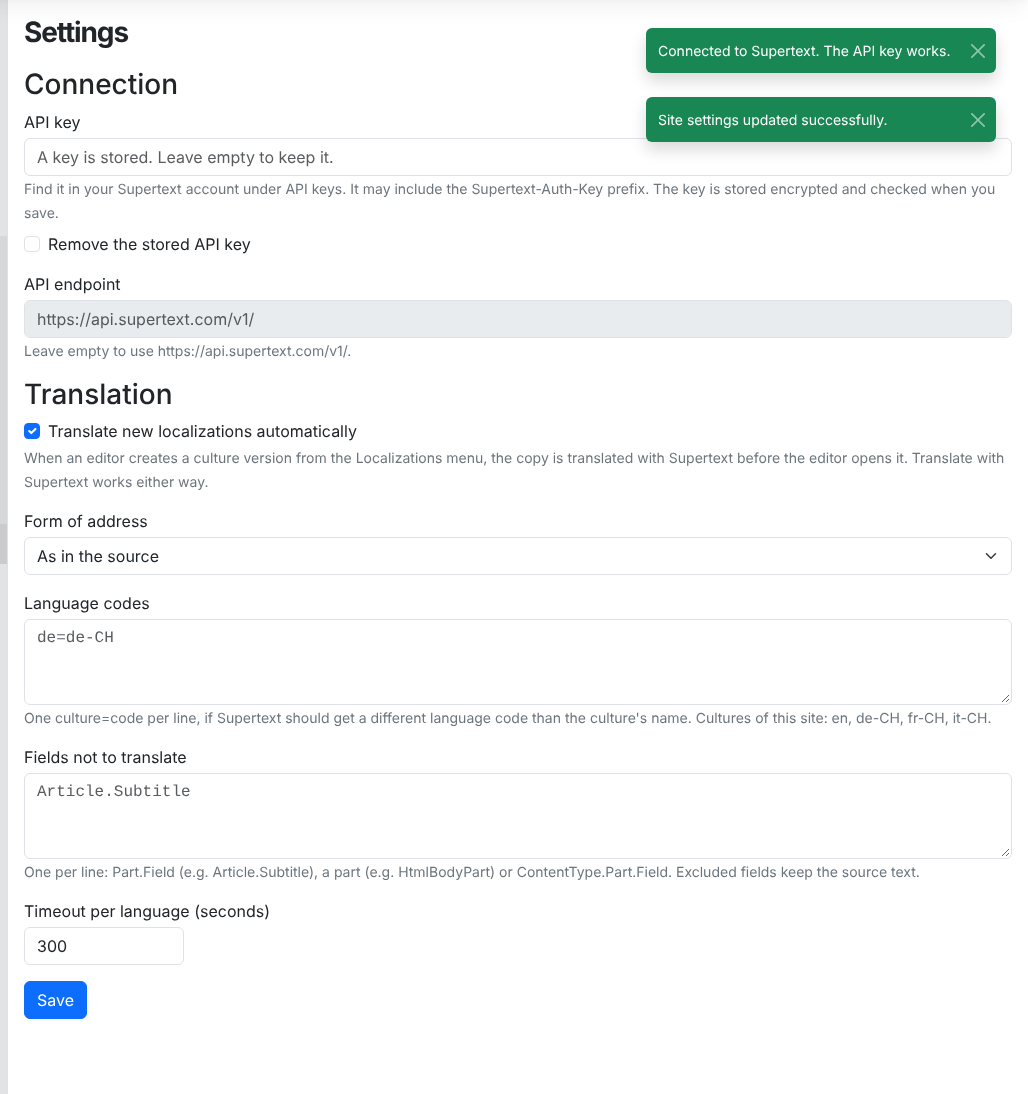
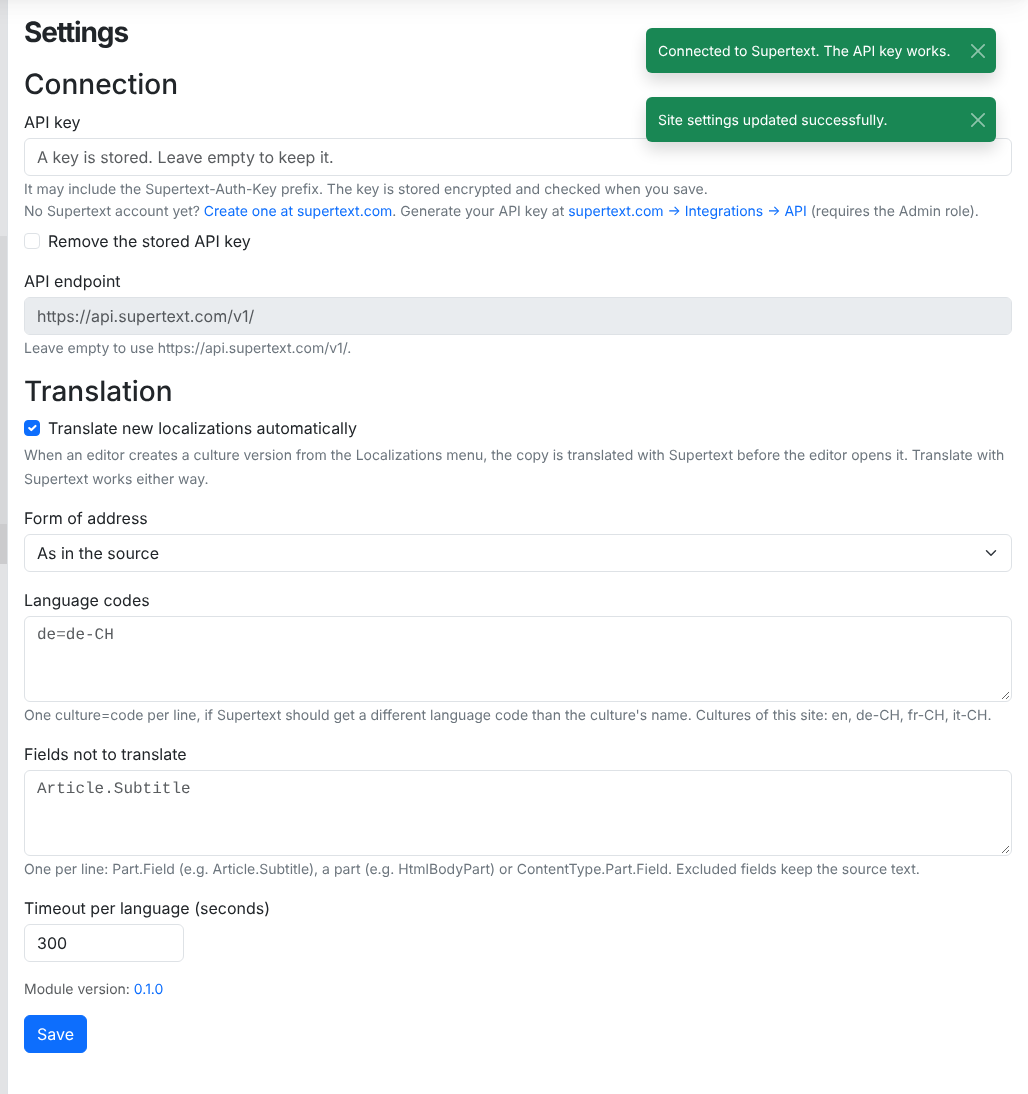
Show the module version on the Supertext settings page
Settings → Supertext shows "Module version: X.Y.Z", read at runtime from the
assembly's informational version (the .csproj <Version>, "+commit" stripped),
linked to the GitHub release for release versions.

Claude-Session: https://claude.ai/code/session_01EnSTWcWHurd9UcMU2SVApV

diff --git a/src/Supertext.OrchardCore.Translation/Services/ModuleVersion.cs b/src/Supertext.OrchardCore.Translation/Services/ModuleVersion.cs
@@ -1,0 +1,36 @@
+using System.Reflection;
+using System.Text.RegularExpressions;
+
+namespace Supertext.OrchardCore.Translation.Services;
+
+/// <summary>
+/// The module's version, read from the assembly (set by <c>&lt;Version&gt;</c> in the .csproj),
+/// so there is no second copy to keep in sync.
+/// </summary>
+public static partial class ModuleVersion
+{
+    public const string ReleasesUrl = "https://github.com/Supertext/OrchardCore-Supertext-Translation/releases/tag/v";
+
+    /// <summary>The version without build metadata, e.g. "0.1.0".</summary>
+    public static string Current { get; } = Normalize(
+        typeof(ModuleVersion).Assembly.GetCustomAttribute<AssemblyInformationalVersionAttribute>()?.InformationalVersion
+        ?? typeof(ModuleVersion).Assembly.GetName().Version?.ToString(3));
+
+    /// <summary>Strips the "+commit" build metadata the SDK appends; empty for null.</summary>
+    public static string Normalize(string version)
+    {
+        if (string.IsNullOrWhiteSpace(version))
+        {
+            return string.Empty;
+        }
+        var plus = version.IndexOf('+');
+        return (plus >= 0 ? version[..plus] : version).Trim();
+    }
+
+    /// <summary>The GitHub release page for a release version (X.Y.Z), otherwise null.</summary>
+    public static string ReleaseUrl(string version)
+        => version is not null && ReleasePattern().IsMatch(version) ? ReleasesUrl + version : null;
+
+    [GeneratedRegex(@"^\d+\.\d+\.\d+$")]
+    private static partial Regex ReleasePattern();
+}

diff --git a/tests/Supertext.OrchardCore.Translation.Tests/ModuleVersionTests.cs b/tests/Supertext.OrchardCore.Translation.Tests/ModuleVersionTests.cs
@@ -1,0 +1,32 @@
+using Supertext.OrchardCore.Translation.Services;
+using Xunit;
+
+namespace Supertext.OrchardCore.Translation.Tests;
+
+public class ModuleVersionTests
+{
+    [Theory]
+    [InlineData("0.1.0+3f2a1c9d", "0.1.0")]
+    [InlineData("1.2.3", "1.2.3")]
+    [InlineData("1.2.3-beta.1+abc", "1.2.3-beta.1")]
+    [InlineData(null, "")]
+    [InlineData("  ", "")]
+    public void Normalize_strips_build_metadata(string input, string expected)
+        => Assert.Equal(expected, ModuleVersion.Normalize(input));
+
+    [Fact]
+    public void Release_versions_link_to_the_github_release()
+        => Assert.Equal("https://github.com/Supertext/OrchardCore-Supertext-Translation/releases/tag/v0.1.0", ModuleVersion.ReleaseUrl("0.1.0"));
+
+    [Theory]
+    [InlineData("1.2.3-beta.1")]
+    [InlineData("1.2")]
+    [InlineData("")]
+    [InlineData(null)]
+    public void Other_versions_have_no_link(string version)
+        => Assert.Null(ModuleVersion.ReleaseUrl(version));
+
+    [Fact]
+    public void Current_matches_the_project_version()
+        => Assert.Matches(@"^\d+\.\d+\.\d+", ModuleVersion.Current);
+}

diff --git a/src/Supertext.OrchardCore.Translation/Drivers/SupertextSettingsDisplayDriver.cs b/src/Supertext.OrchardCore.Translation/Drivers/SupertextSettingsDisplayDriver.cs
@@ -58,6 +58,8 @@ public sealed class SupertextSettingsDisplayDriver(
             model.ExcludedFields = settings.ExcludedFields;
             model.PollTimeoutSeconds = settings.PollTimeoutSeconds;
             model.Cultures = cultures;
+            model.ModuleVersion = ModuleVersion.Current;
+            model.ModuleReleaseUrl = ModuleVersion.ReleaseUrl(ModuleVersion.Current);
         }).Location("Content:2").OnGroup(SettingsGroupId);
     }
 

diff --git a/src/Supertext.OrchardCore.Translation/ViewModels/SupertextSettingsViewModel.cs b/src/Supertext.OrchardCore.Translation/ViewModels/SupertextSettingsViewModel.cs
@@ -30,4 +30,9 @@ public class SupertextSettingsViewModel
     public bool EndpointFromEnvironment { get; set; }
 
     public IReadOnlyList<string> Cultures { get; set; } = [];
+
+    public string ModuleVersion { get; set; }
+
+    /// <summary>GitHub release page when <see cref="ModuleVersion"/> is a release (X.Y.Z), else null.</summary>
+    public string ModuleReleaseUrl { get; set; }
 }

diff --git a/docs/DEVELOPER.md b/docs/DEVELOPER.md
@@ -71,7 +71,7 @@ If a Razor view suddenly fails with errors at impossible positions after editing
 ## Tests
 
 ```bash
-dotnet test tests/Supertext.OrchardCore.Translation.Tests   # HTML packing, Liquid protection, content walker, settings parsing
+dotnet test tests/Supertext.OrchardCore.Translation.Tests   # HTML packing, Liquid protection, content walker, settings parsing, module version
 ```
 
 CI (`.github/workflows/ci.yml`) builds the module and the demo, runs the tests, checks the demo entrypoint and the Node scripts' syntax.
@@ -137,6 +137,8 @@ Releases are published by `.github/workflows/release.yml` when the version is of
 2. Set the same version in:
    - `src/Supertext.OrchardCore.Translation/Supertext.OrchardCore.Translation.csproj`: `Version`, the NuGet package version
    - `src/Supertext.OrchardCore.Translation/Manifest.cs`: the module's `Version`
+
+   Settings → Supertext shows the assembly's informational version (from the `.csproj` `Version`, build metadata after `+` stripped; `Services/ModuleVersion.cs`) and links X.Y.Z to its GitHub release; there is no other copy to update.
 3. Push to `main`. The workflow checks that the version files match `CHANGELOG.md`, then tags `vX.Y.Z` and creates the GitHub release with the CHANGELOG section as notes (0.x versions as pre-releases). A push that adds no new version does nothing, and a version that is already released is skipped. After fixing a failed run, start it again with *Run workflow* on the *Release* workflow.
 
 Publishing to NuGet stays manual: `dotnet pack src/Supertext.OrchardCore.Translation -c Release`, then push the package (tagged `OrchardCoreCMS` and `Module`, so it is found as an Orchard Core module).

diff --git a/docs/INSTALLATION.md b/docs/INSTALLATION.md
@@ -53,6 +53,8 @@ The settings page shows both links below the API key field.
 
 ![Settings → Supertext with a stored API key and the connection check](images/settings.png)
 
+The bottom of the page shows the installed **Module version** (read from the module itself). For a release version it links to that release's notes on GitHub; quote it when you contact support.
+
 The key is stored encrypted with ASP.NET Core data protection. It is never shown again; leave the field empty to keep it, or tick **Remove the stored API key**.
 
 **Environment variables win** over the settings page (useful for containers):

diff --git a/CHANGELOG.md b/CHANGELOG.md
@@ -4,6 +4,10 @@ All notable changes to this project are documented here. The format follows [Kee
 
 ## Unreleased
 
+### Added
+
+- Settings → Supertext shows the installed module version, linked to its GitHub release notes.
+
 ## 0.1.0 — 2026-10-07
 
 ### Added
